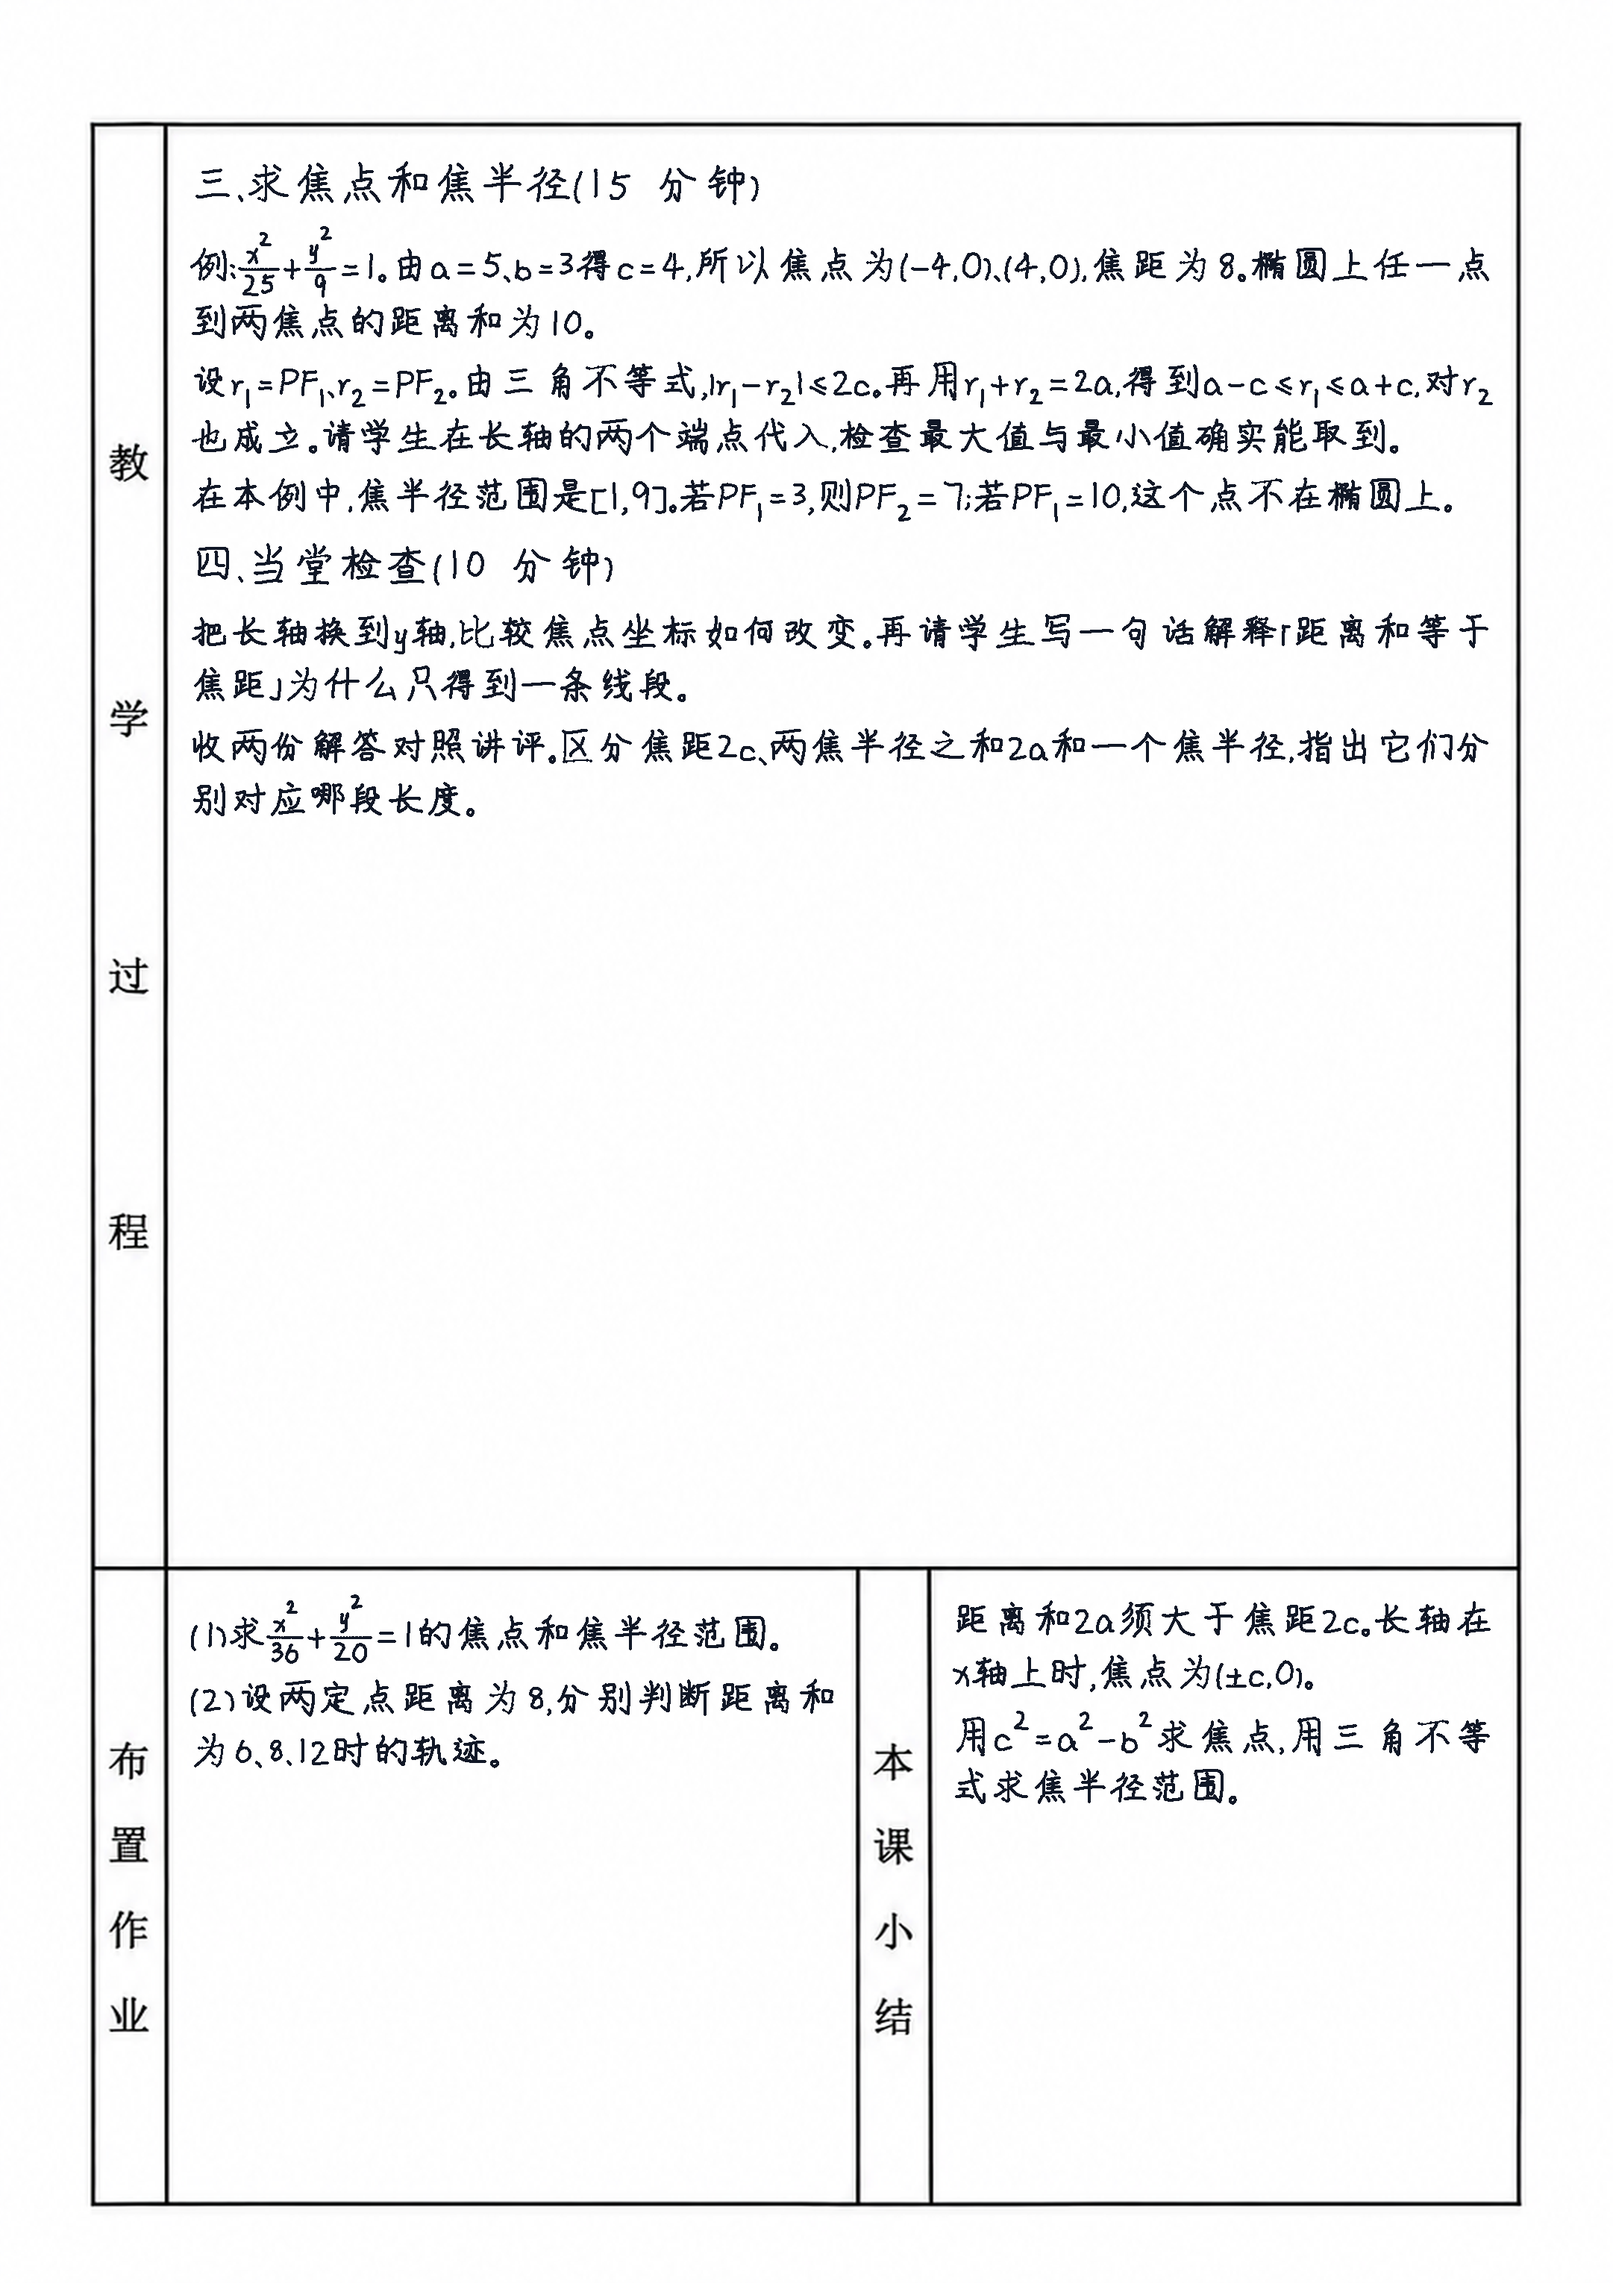
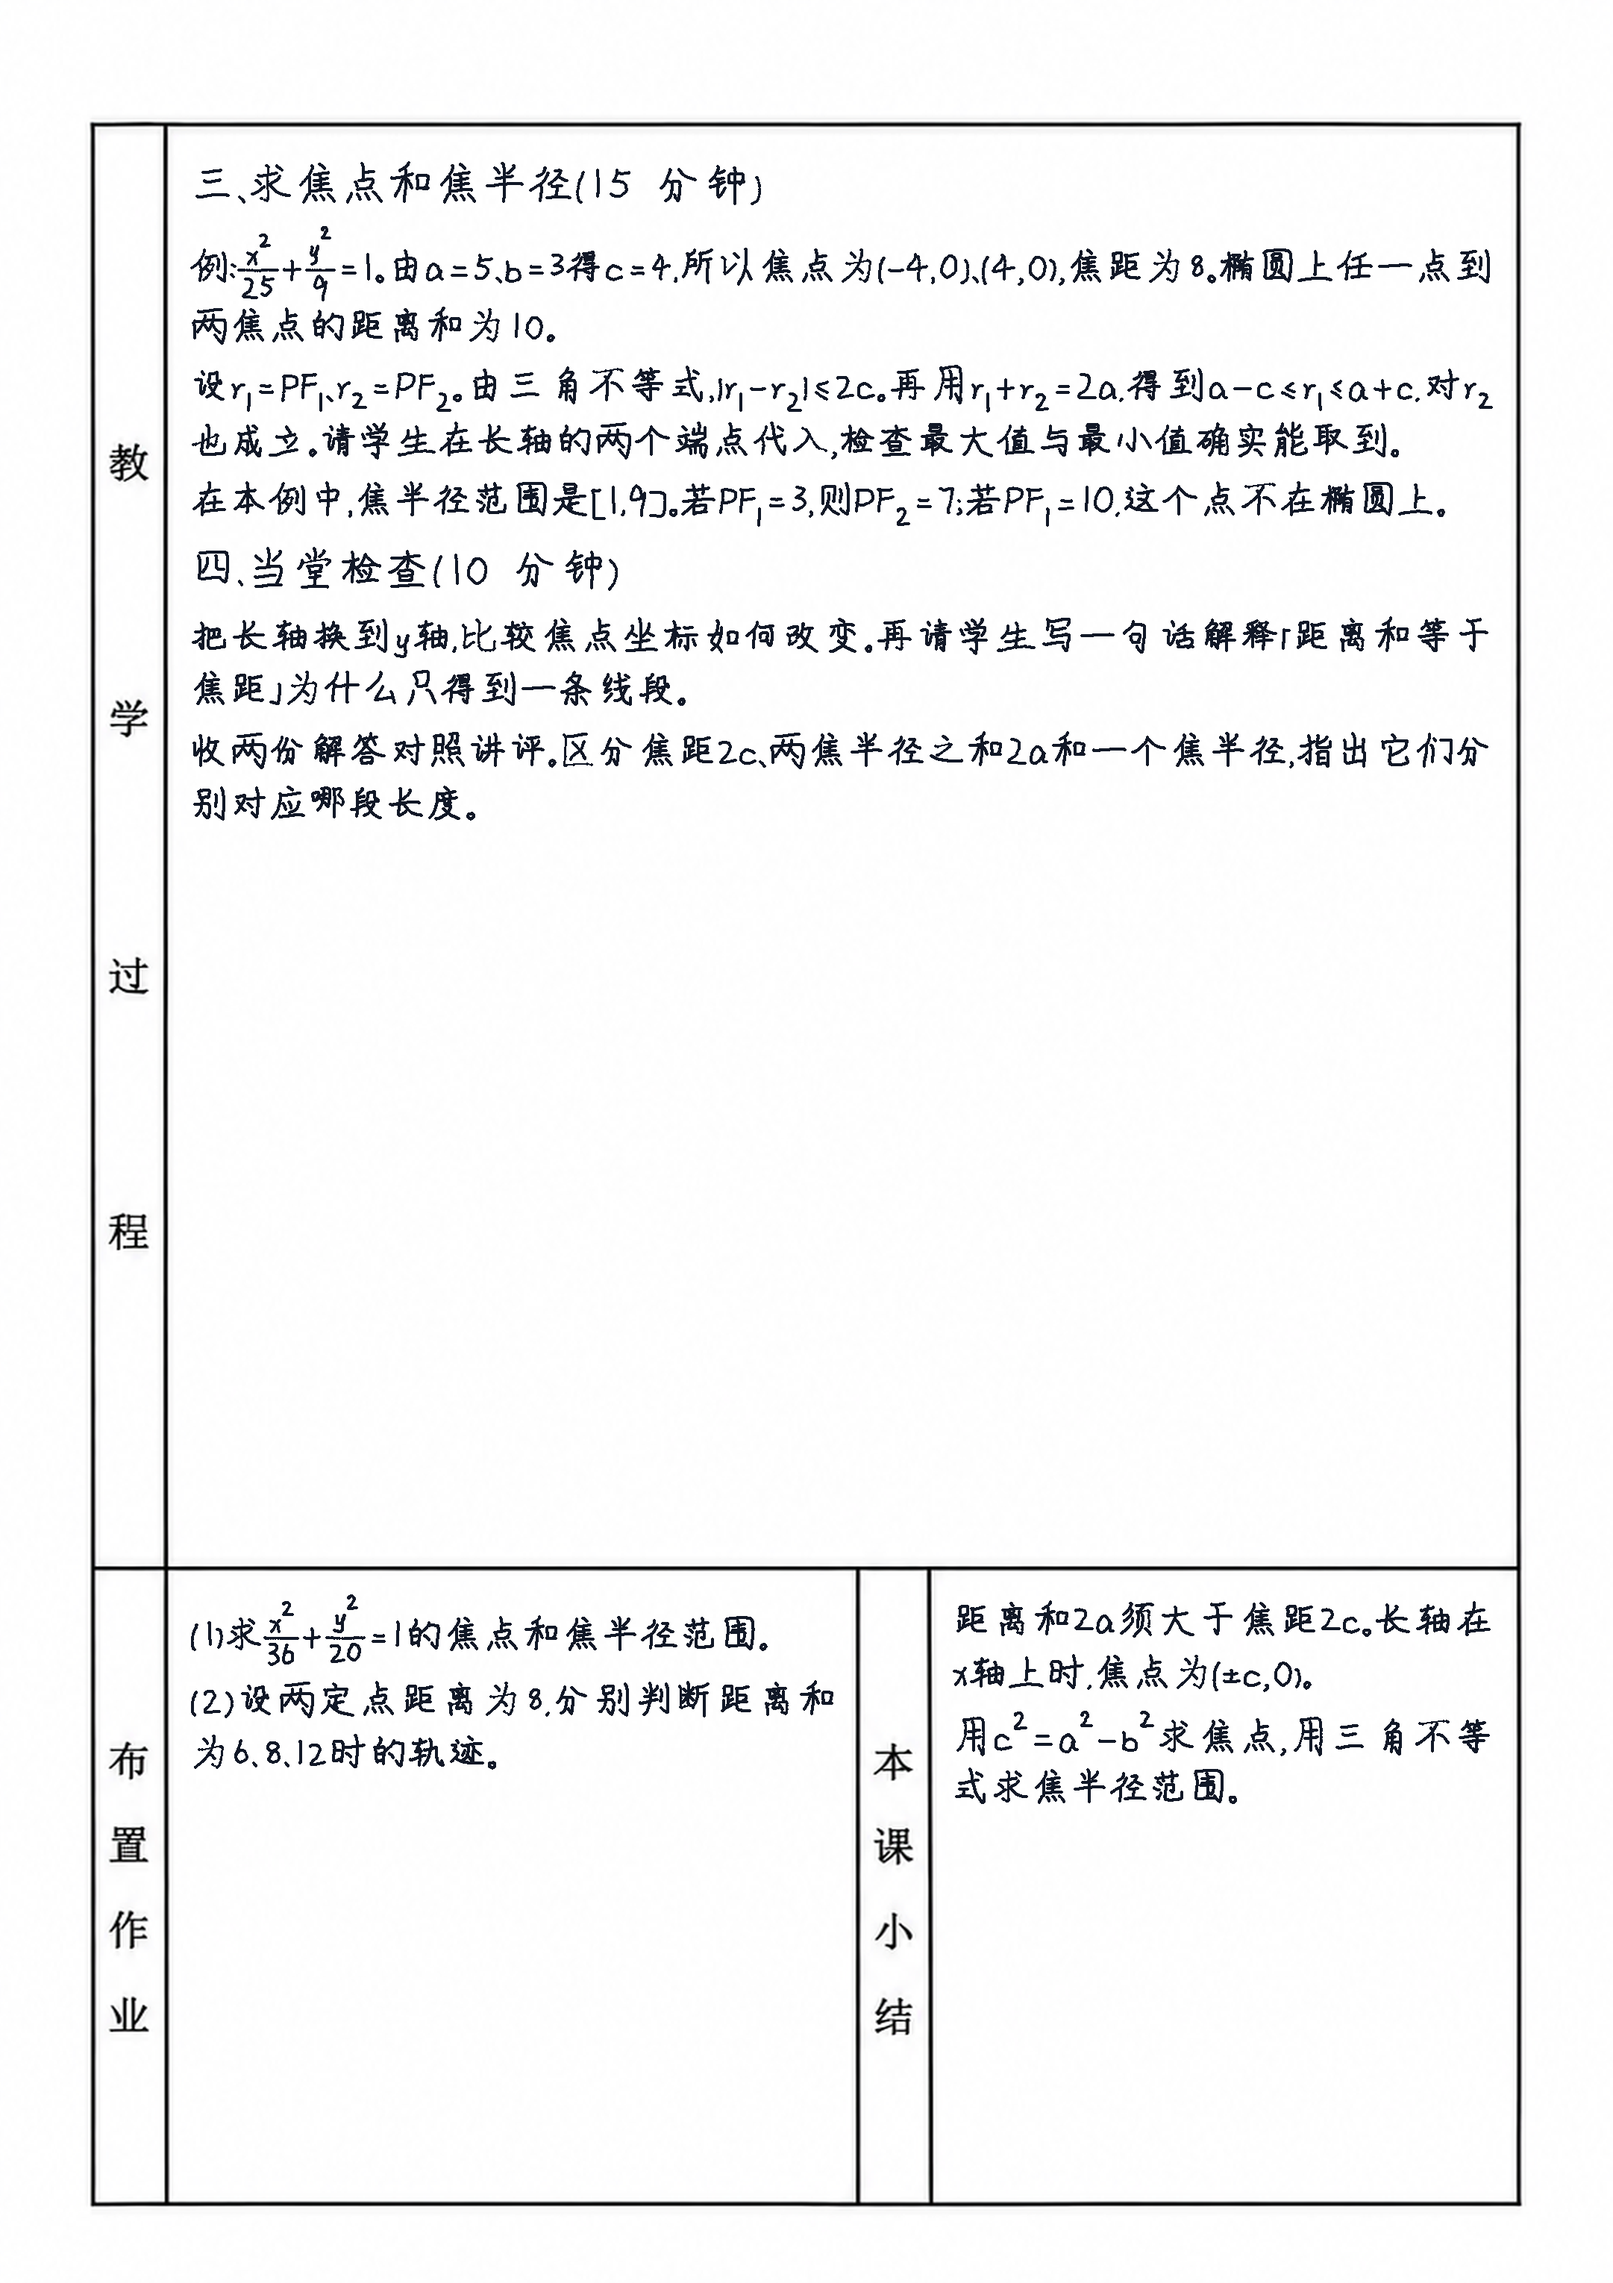
Remove lettering from the ellipse line drawing

diff --git a/site/guide/lesson-plan-template.md b/site/guide/lesson-plan-template.md
@@ -144,7 +144,7 @@ import { withBase } from 'vitepress'
 1. 在右侧 **元素属性 › 表格与图片** 的下拉列表中选中 **图片 1**，点 **独立设置**。
 2. **尺寸依据** 选 **按高度，宽度按比例**，高度填 **34 mm**，**图片对齐** 选 **居中**，**图片与图题间距** 填 **1.5 mm**，点 **应用元素属性**。软件会按原比例计算宽度，本例约为 **55.5 mm**。
 
-图中的椭圆、两条焦半径和字母标注都由线条构成。导出写字机 SVG 时，InkStruct 会用文档笔宽把这些线条和手写图题一起输出。保存 `.inkdoc` 后，线图也会保存在项目里。
+线图由椭圆、坐标轴、点标记和两条焦半径组成。焦点和交点的字母说明写在教案正文里。导出写字机 SVG 时，InkStruct 会用文档笔宽把线条和手写图题一起输出。保存 `.inkdoc` 后，线图也会保存在项目里。
 
 ### 核对两页
 

diff --git a/site/public/downloads/lesson-plan/ellipse-lesson.md b/site/public/downloads/lesson-plan/ellipse-lesson.md
@@ -58,7 +58,7 @@
 
 ### 一、拉线画椭圆（8 分钟）
 
-如图1，把绳的两端固定在$F_1$、$F_2$，用笔尖$P$拉紧绳并移动。请学生观察哪两个量会变，哪一个量保持不变。归纳：每段绳长会变，两段之和始终等于绳长。
+图1中，横轴上的两点是焦点$F_1$、$F_2$，两条斜线交于椭圆上的点$P$。把绳的两端固定在焦点，用笔尖拉紧绳并移动。请学生观察两段绳长如何变化，归纳它们的和始终等于绳长。
 
 追问：绳长等于两钉间距时还能画出椭圆吗？让学生把笔尖移到两钉之间，再用三角不等式说明为什么。
 

diff --git a/site/public/downloads/lesson-plan/ellipse-lesson-body.md b/site/public/downloads/lesson-plan/ellipse-lesson-body.md
@@ -1,6 +1,6 @@
 ### 一、拉线画椭圆（8 分钟）
 
-如图1，把绳的两端固定在$F_1$、$F_2$，用笔尖$P$拉紧绳并移动。请学生观察哪两个量会变，哪一个量保持不变。归纳：每段绳长会变，两段之和始终等于绳长。
+图1中，横轴上的两点是焦点$F_1$、$F_2$，两条斜线交于椭圆上的点$P$。把绳的两端固定在焦点，用笔尖拉紧绳并移动。请学生观察两段绳长如何变化，归纳它们的和始终等于绳长。
 
 追问：绳长等于两钉间距时还能画出椭圆吗？让学生把笔尖移到两钉之间，再用三角不等式说明为什么。
 
